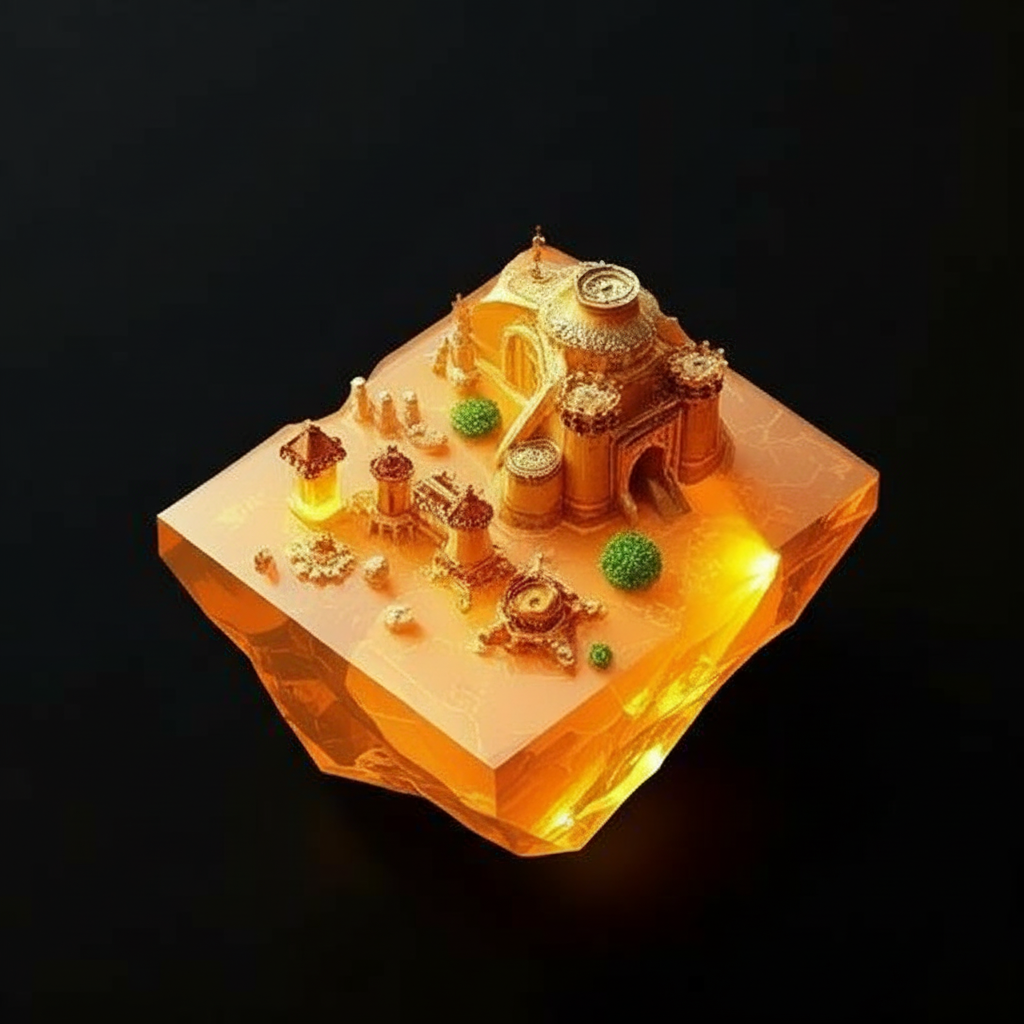
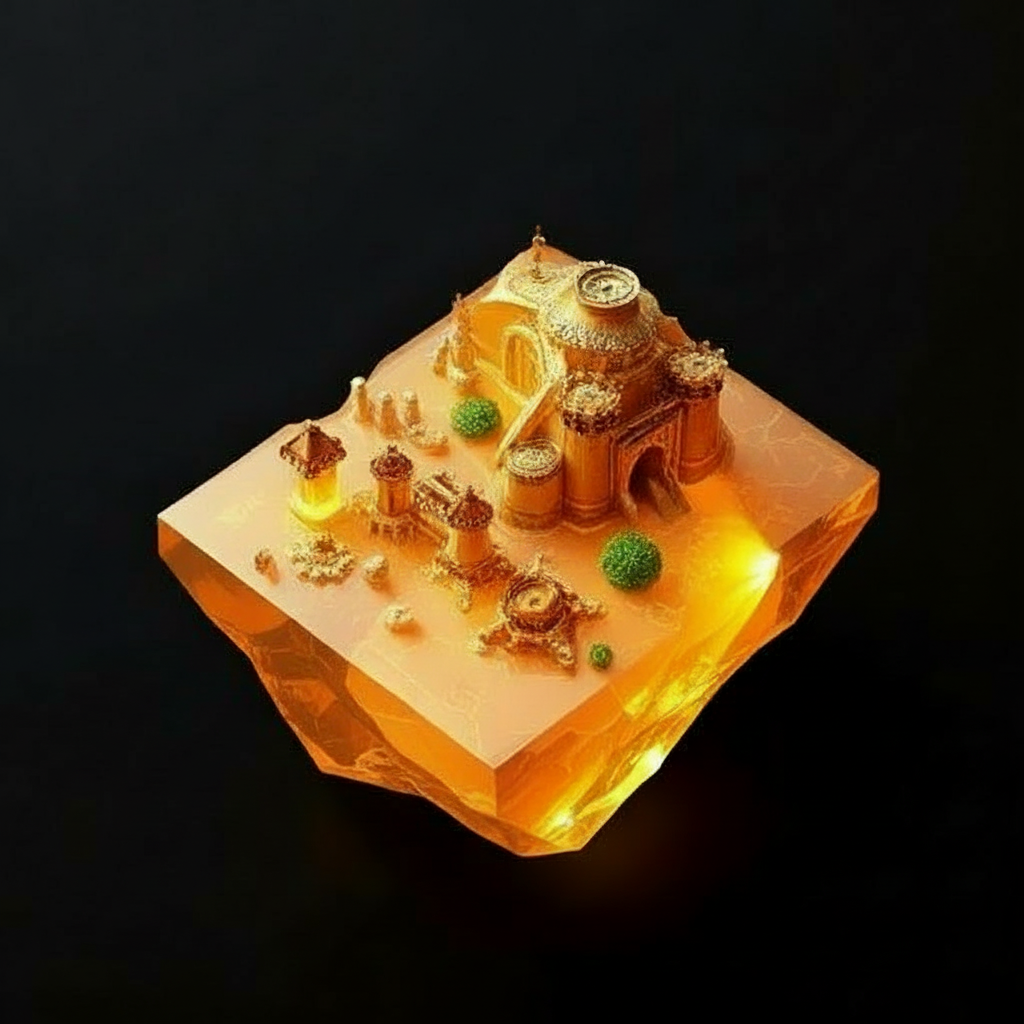
Changes

diff --git a/src/pages/Overview.tsx b/src/pages/Overview.tsx
@@ -171,7 +171,7 @@ No mods. No invasive integrations. Run drills that feel like the game.
                     className="w-[90%] mx-auto -mt-4 mb-[-1rem] pointer-events-none select-none opacity-60 drop-shadow-[0_8px_40px_hsl(var(--primary)/0.25)]"
                     style={{
                       animation: `terrainFloat ${3 + i * 0.5}s ease-in-out infinite`,
-                      filter: 'saturate(1.2)',
+                      filter: 'saturate(1.2) contrast(1.4) brightness(1.05)',
                       mixBlendMode: 'lighten'
                     }} />);
 
